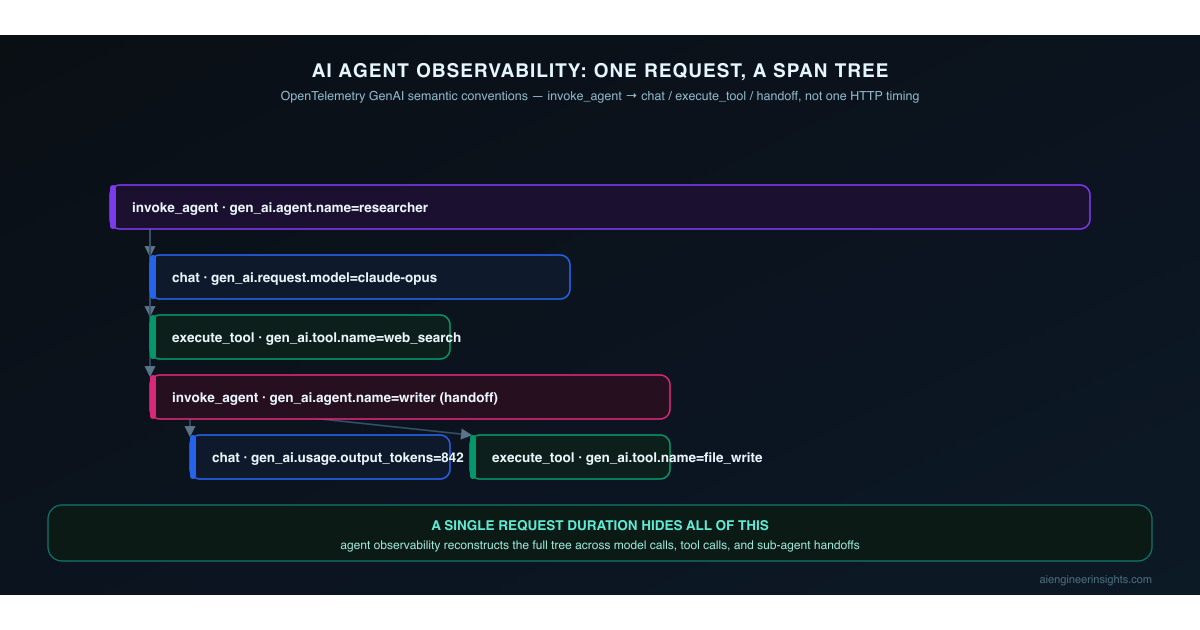
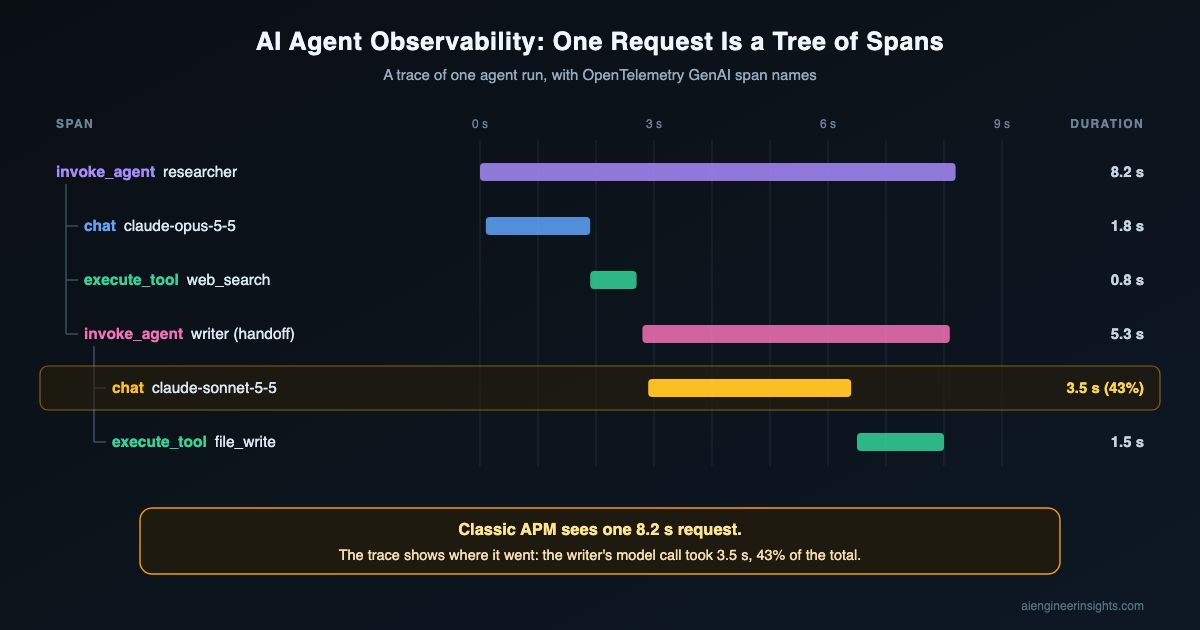
Redraw AI agent observability hero as trace waterfall
Fixes overflowing labels, empty gap and stray arrow; adds a time axis,
per-span durations and a highlighted bottleneck span. OG image regenerated.

diff --git a/src/components/AgentObservabilityHeroDiagram.tsx b/src/components/AgentObservabilityHeroDiagram.tsx
@@ -1,77 +1,123 @@
 // Hero diagram for "AI Agent Observability". Pure inline SVG so it prerenders
 // to crawler-visible markup and doubles as the OG image (viewBox 1200x630).
-// Shows why agent observability isn't classic APM: one user request fans out
-// into a nested span tree (invoke_agent -> chat -> execute_tool / plan /
-// sub-agent handoff), each span carrying OpenTelemetry GenAI semconv
-// attributes (gen_ai.agent.name, gen_ai.request.model, gen_ai.usage.*).
+// Drawn as a trace waterfall, the view every tracing tool (Langfuse, LangSmith,
+// Phoenix, Jaeger) shows: one agent request broken into nested OpenTelemetry
+// GenAI spans (invoke_agent, chat, execute_tool) on a shared time axis, with
+// the slow span highlighted to show what a single request duration hides.
+type Span = {
+  op: string;
+  name: string;
+  depth: number;
+  start: number; // seconds
+  dur: number; // seconds
+  color: string;
+  slow?: boolean;
+};
+
+const SPANS: Span[] = [
+  { op: "invoke_agent", name: "researcher", depth: 0, start: 0, dur: 8.2, color: "#a78bfa" },
+  { op: "chat", name: "claude-opus-5-5", depth: 1, start: 0.1, dur: 1.8, color: "#60a5fa" },
+  { op: "execute_tool", name: "web_search", depth: 1, start: 1.9, dur: 0.8, color: "#34d399" },
+  { op: "invoke_agent", name: "writer (handoff)", depth: 1, start: 2.8, dur: 5.3, color: "#f472b6" },
+  { op: "chat", name: "claude-sonnet-5-5", depth: 2, start: 2.9, dur: 3.5, color: "#fbbf24", slow: true },
+  { op: "execute_tool", name: "file_write", depth: 2, start: 6.5, dur: 1.5, color: "#34d399" },
+];
+
+const ROW_Y = 172; // first row centre
+const ROW_H = 54;
+const T0 = 480; // x of t=0
+const PX_PER_S = 58; // 9 s -> 522 px, axis ends at 1002
+const NAME_X = 56;
+const INDENT = 28;
+
 const AgentObservabilityHeroDiagram = () => {
-  const spans = [
-    { y: 150, w: 980, x: 110, depth: 0, label: "invoke_agent  ·  gen_ai.agent.name=researcher", color: "#7c3aed", fill: "#1b1030" },
-    { y: 220, w: 420, x: 150, depth: 1, label: "chat  ·  gen_ai.request.model=claude-opus", color: "#2563eb", fill: "#0e1a2c" },
-    { y: 280, w: 300, x: 150, depth: 1, label: "execute_tool  ·  gen_ai.tool.name=web_search", color: "#059669", fill: "#0d1f1a" },
-    { y: 340, w: 520, x: 150, depth: 1, label: "invoke_agent  ·  gen_ai.agent.name=writer (handoff)", color: "#db2777", fill: "#260f1e" },
-    { y: 400, w: 260, x: 190, depth: 2, label: "chat  ·  gen_ai.usage.output_tokens=842", color: "#2563eb", fill: "#0e1a2c" },
-    { y: 400, w: 200, x: 470, depth: 2, label: "execute_tool  ·  gen_ai.tool.name=file_write", color: "#059669", fill: "#0d1f1a" },
-  ];
+  const rowY = (i: number) => ROW_Y + i * ROW_H;
+  const indentX = (d: number) => NAME_X + d * INDENT;
   return (
     <div className="rounded-xl border border-border overflow-hidden mb-8 sm:mb-12 bg-[#0a0f14]">
       <svg
-        viewBox="0 0 1200 560"
+        viewBox="0 0 1200 630"
         role="img"
-        aria-label="A span tree for one AI agent request, the shape agent observability captures that classic APM misses. The root span is invoke_agent for a researcher agent, carrying OpenTelemetry GenAI semantic convention attributes like gen_ai.agent.name. Nested under it: a chat span to claude-opus with gen_ai.request.model and gen_ai.usage token counts, an execute_tool span calling web_search, and a handoff to a second invoke_agent span for a writer agent, which itself nests a chat span and an execute_tool span calling file_write. A single end-to-end request duration hides this whole tree; agent observability tools reconstruct it from OpenTelemetry GenAI spans so you can see exactly which model call, tool call, or sub-agent handoff caused a slow or wrong answer."
+        fontFamily="Inter, -apple-system, 'Segoe UI', Helvetica, Arial, sans-serif"
+        aria-label="Trace waterfall of one AI agent request, using OpenTelemetry GenAI span names. The root span invoke_agent researcher runs 8.2 seconds. Under it: a chat span to claude-opus-5-5 (1.8 s), an execute_tool span for web_search (0.8 s), and a handoff to invoke_agent writer (5.3 s). Under the writer: a chat span to claude-sonnet-5-5 that takes 3.5 seconds, 43% of the request and the bottleneck, then execute_tool file_write (1.5 s). Classic APM sees only one 8.2 second request; the trace shows where the time went."
         className="w-full h-auto block"
       >
         <defs>
           <linearGradient id="aoBg" x1="0" y1="0" x2="1" y2="1">
             <stop offset="0%" stopColor="#0a0f14" />
-            <stop offset="60%" stopColor="#0b1420" />
-            <stop offset="100%" stopColor="#0c1a26" />
+            <stop offset="100%" stopColor="#0d1824" />
           </linearGradient>
-          <marker id="aoArrow" viewBox="0 0 10 10" refX="8" refY="5" markerWidth="7" markerHeight="7" orient="auto-start-reverse">
-            <path d="M0,0 L10,5 L0,10 z" fill="#5b7488" />
-          </marker>
         </defs>
+        <rect width="1200" height="630" fill="url(#aoBg)" />
 
-        <rect width="1200" height="560" fill="url(#aoBg)" />
-        <g fill="#38bdf8" opacity="0.05">
-          {Array.from({ length: 12 }).map((_, r) =>
-            Array.from({ length: 24 }).map((_, c) => (
-              <circle key={`${r}-${c}`} cx={40 + c * 49} cy={24 + r * 42} r="1.6" />
-            ))
-          )}
+        {/* Title */}
+        <text x="600" y="50" textAnchor="middle" fill="#eef6ff" fontSize="25" fontWeight="800" letterSpacing="0.6">
+          AI Agent Observability: One Request Is a Tree of Spans
+        </text>
+        <text x="600" y="80" textAnchor="middle" fill="#93acc0" fontSize="15">
+          A trace of one agent run, with OpenTelemetry GenAI span names
+        </text>
+
+        {/* Column headers */}
+        <text x={NAME_X} y="128" fill="#6b8399" fontSize="12" fontWeight="700" letterSpacing="1.4">SPAN</text>
+        <text x="1144" y="128" textAnchor="end" fill="#6b8399" fontSize="12" fontWeight="700" letterSpacing="1.4">DURATION</text>
+
+        {/* Time axis */}
+        {Array.from({ length: 10 }).map((_, s) => {
+          const x = T0 + s * PX_PER_S;
+          return (
+            <g key={s}>
+              <line x1={x} y1="140" x2={x} y2={rowY(SPANS.length - 1) + 24} stroke="#1c2a38" strokeWidth="1" />
+              {s % 3 === 0 && (
+                <text x={x} y="128" textAnchor="middle" fill="#6b8399" fontSize="12">{s} s</text>
+              )}
+            </g>
+          );
+        })}
+
+        {/* Tree guides */}
+        <g stroke="#3a4f63" strokeWidth="1.5" fill="none">
+          <path d={`M ${indentX(0) + 10} ${rowY(0) + 12} V ${rowY(3)}`} />
+          {[1, 2, 3].map((i) => (
+            <path key={i} d={`M ${indentX(0) + 10} ${rowY(i)} H ${indentX(1) - 6}`} />
+          ))}
+          <path d={`M ${indentX(1) + 10} ${rowY(3) + 12} V ${rowY(5)}`} />
+          {[4, 5].map((i) => (
+            <path key={i} d={`M ${indentX(1) + 10} ${rowY(i)} H ${indentX(2) - 6}`} />
+          ))}
         </g>
 
-        <text x="600" y="42" textAnchor="middle" fill="#e6f6ff" fontSize="19" fontWeight="800" letterSpacing="1">
-          AI AGENT OBSERVABILITY: ONE REQUEST, A SPAN TREE
+        {SPANS.map((s, i) => {
+          const y = rowY(i);
+          const bx = T0 + s.start * PX_PER_S;
+          const bw = s.dur * PX_PER_S;
+          return (
+            <g key={`${s.op}-${s.name}`}>
+              {s.slow && (
+                <rect x="40" y={y - 22} width="1120" height="44" rx="8" fill="#2a1f08" opacity="0.55" stroke="#f59e0b" strokeWidth="1.2" />
+              )}
+              <text x={indentX(s.depth)} y={y + 5} fontSize="15.5">
+                <tspan fill={s.color} fontWeight="700">{s.op}</tspan>
+                <tspan fill="#dbe7f3" dx="8">{s.name}</tspan>
+              </text>
+              <rect x={bx} y={y - 9} width={bw} height="18" rx="4" fill={s.color} opacity={s.slow ? 1 : 0.85} />
+              <text x="1144" y={y + 5} textAnchor="end" fill={s.slow ? "#fcd34d" : "#c7d5e2"} fontSize="15" fontWeight={s.slow ? 800 : 600}>
+                {s.dur.toFixed(1)} s{s.slow ? "  (43%)" : ""}
+              </text>
+            </g>
+          );
+        })}
+
+        {/* Takeaway */}
+        <rect x="140" y="508" width="920" height="66" rx="12" fill="#1f1a10" stroke="#f59e0b" strokeWidth="1.4" />
+        <text x="600" y="535" textAnchor="middle" fill="#fde68a" fontSize="16.5" fontWeight="800">
+          Classic APM sees one 8.2 s request.
         </text>
-        <text x="600" y="65" textAnchor="middle" fill="#8fb8cc" fontSize="12.5">
-          OpenTelemetry GenAI semantic conventions — invoke_agent → chat / execute_tool / handoff, not one HTTP timing
+        <text x="600" y="560" textAnchor="middle" fill="#f5deb0" fontSize="14.5">
+          The trace shows where it went: the writer's model call took 3.5 s, 43% of the total.
         </text>
 
-        {/* connecting lines from root to children, children to grandchildren */}
-        <line x1="150" y1="180" x2="150" y2="220" stroke="#33506a" strokeWidth="1.6" markerEnd="url(#aoArrow)" />
-        <line x1="150" y1="180" x2="150" y2="280" stroke="#33506a" strokeWidth="1.6" markerEnd="url(#aoArrow)" />
-        <line x1="150" y1="180" x2="150" y2="340" stroke="#33506a" strokeWidth="1.6" markerEnd="url(#aoArrow)" />
-        <line x1="190" y1="370" x2="190" y2="400" stroke="#33506a" strokeWidth="1.6" markerEnd="url(#aoArrow)" />
-        <line x1="190" y1="370" x2="470" y2="400" stroke="#33506a" strokeWidth="1.6" markerEnd="url(#aoArrow)" />
-
-        {spans.map((s) => (
-          <g key={s.label}>
-            <rect x={s.x} y={s.y} width={s.w} height="44" rx="10" fill={s.fill} stroke={s.color} strokeWidth="1.6" />
-            <rect x={s.x} y={s.y} width="6" height="44" rx="3" fill={s.color} />
-            <text x={s.x + 22} y={s.y + 27} fill="#eaf4fb" fontSize="13.5" fontWeight="600">{s.label}</text>
-          </g>
-        ))}
-
-        <rect x="48" y="470" width="1104" height="56" rx="14" fill="#0b1a15" stroke="#0f766e" strokeWidth="1.3" />
-        <text x="600" y="495" textAnchor="middle" fill="#5eead4" fontSize="13.5" fontWeight="800">
-          A SINGLE REQUEST DURATION HIDES ALL OF THIS
-        </text>
-        <text x="600" y="514" textAnchor="middle" fill="#9fe8da" fontSize="12">
-          agent observability reconstructs the full tree — which model call, tool call, or sub-agent handoff caused the slow or wrong answer
-        </text>
-
-        <text x="1152" y="548" textAnchor="end" fill="#4b6f7f" fontSize="11">aiengineerinsights.com</text>
+        <text x="1144" y="610" textAnchor="end" fill="#55707f" fontSize="12">aiengineerinsights.com</text>
       </svg>
     </div>
   );
